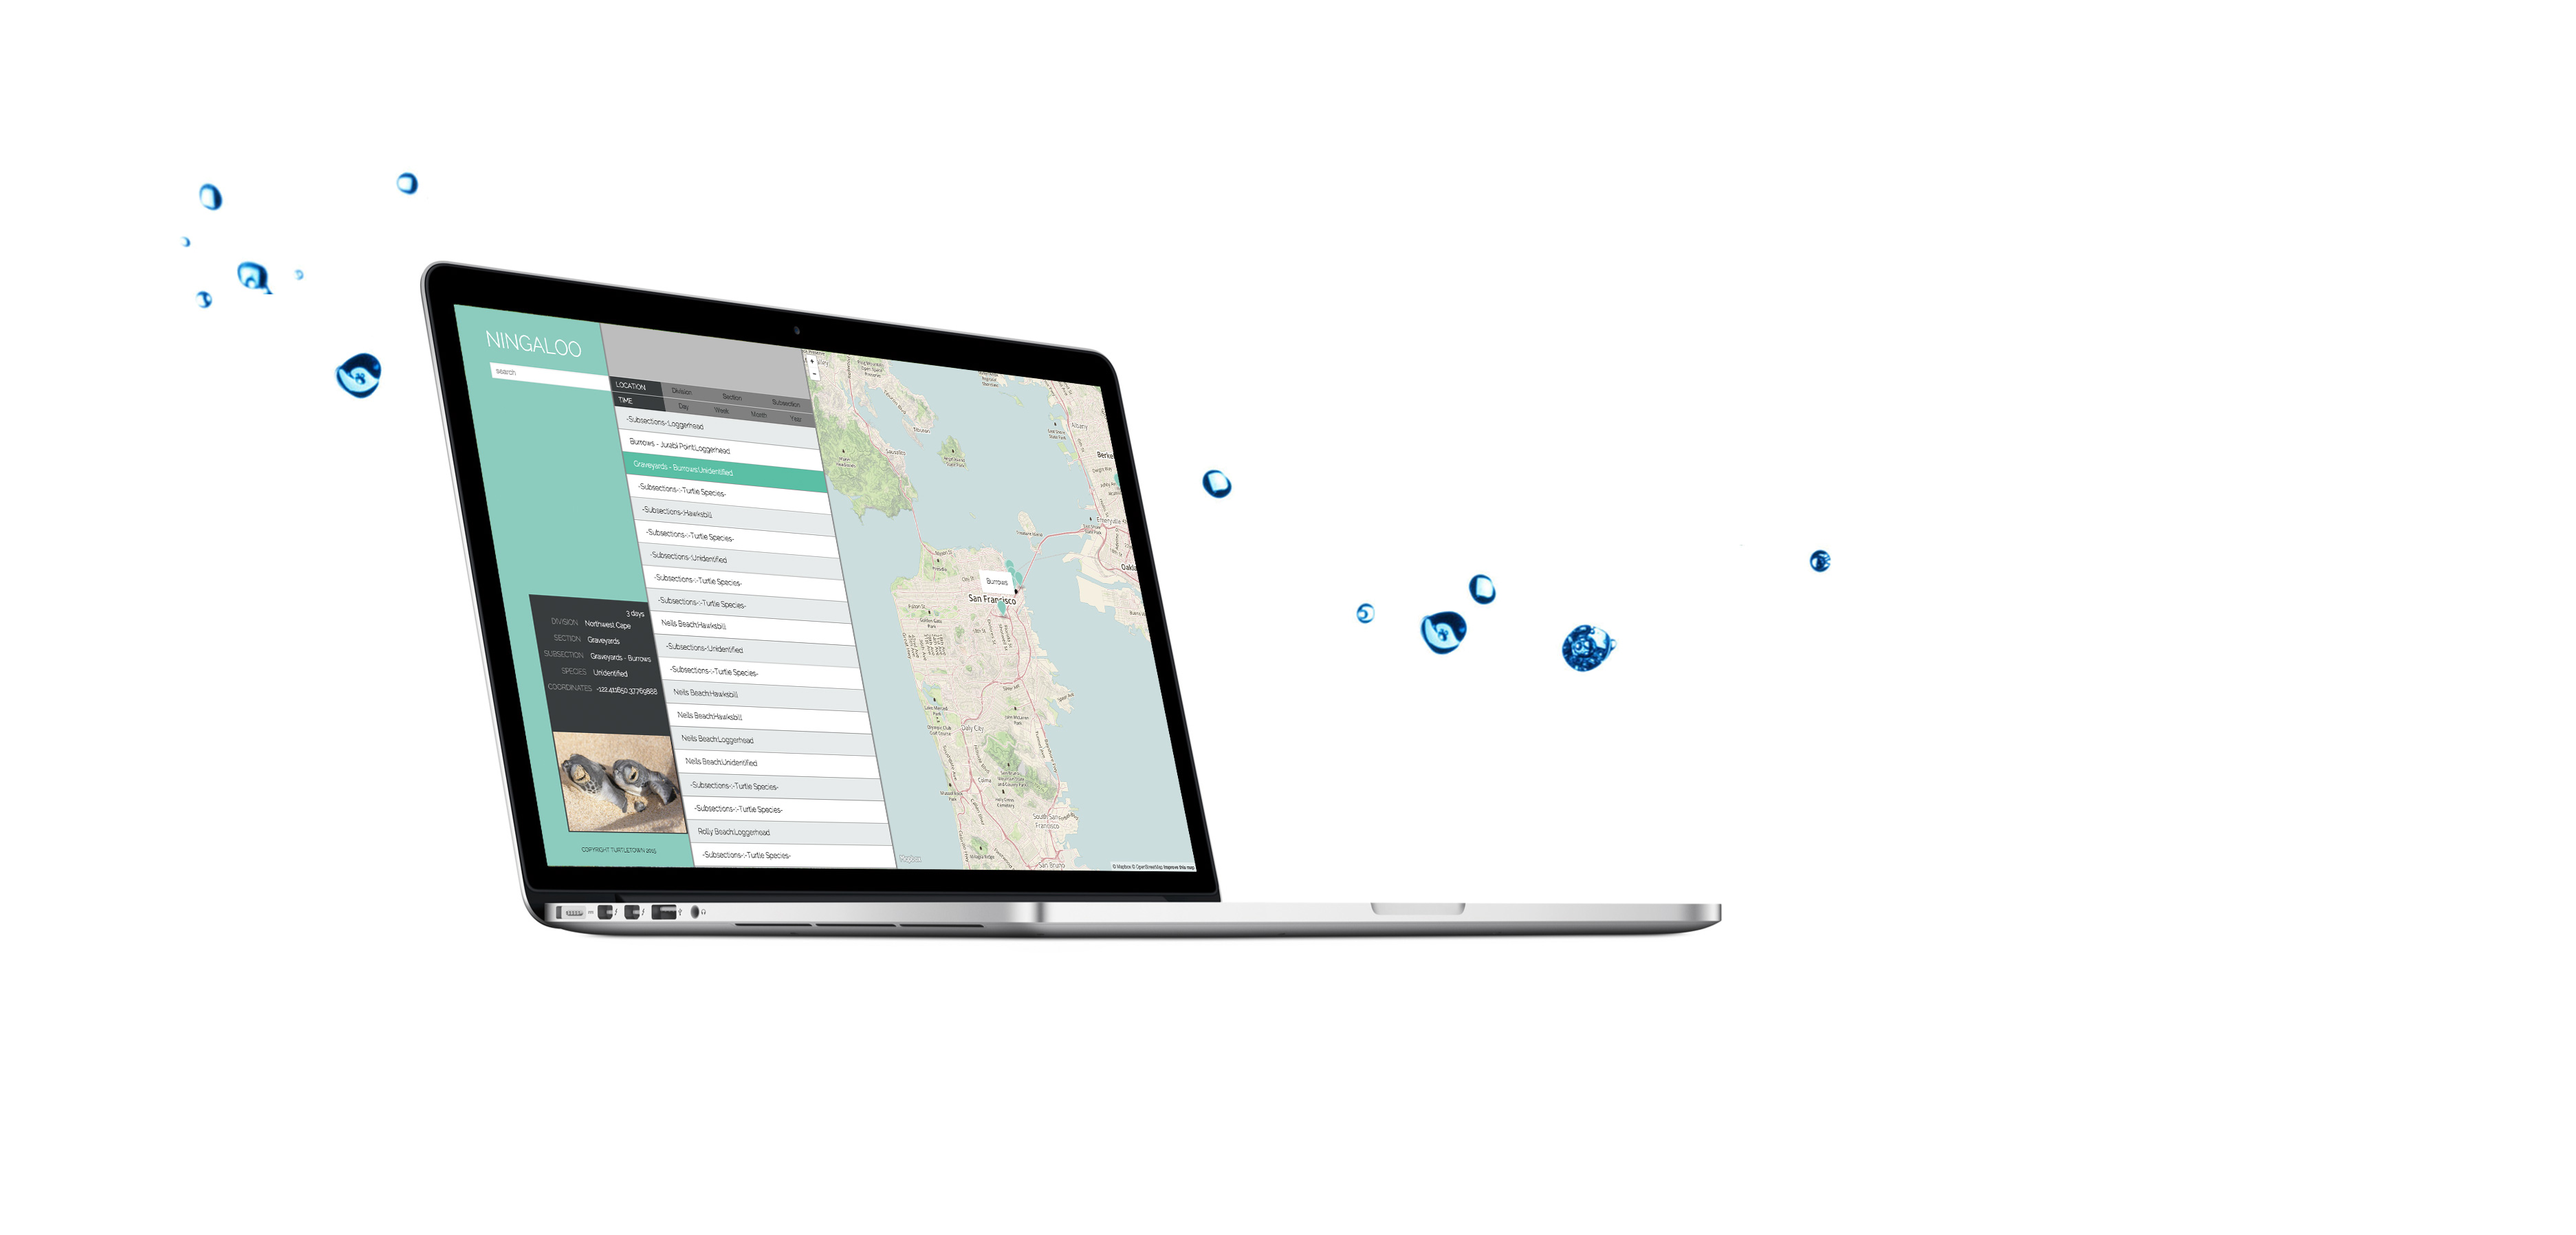
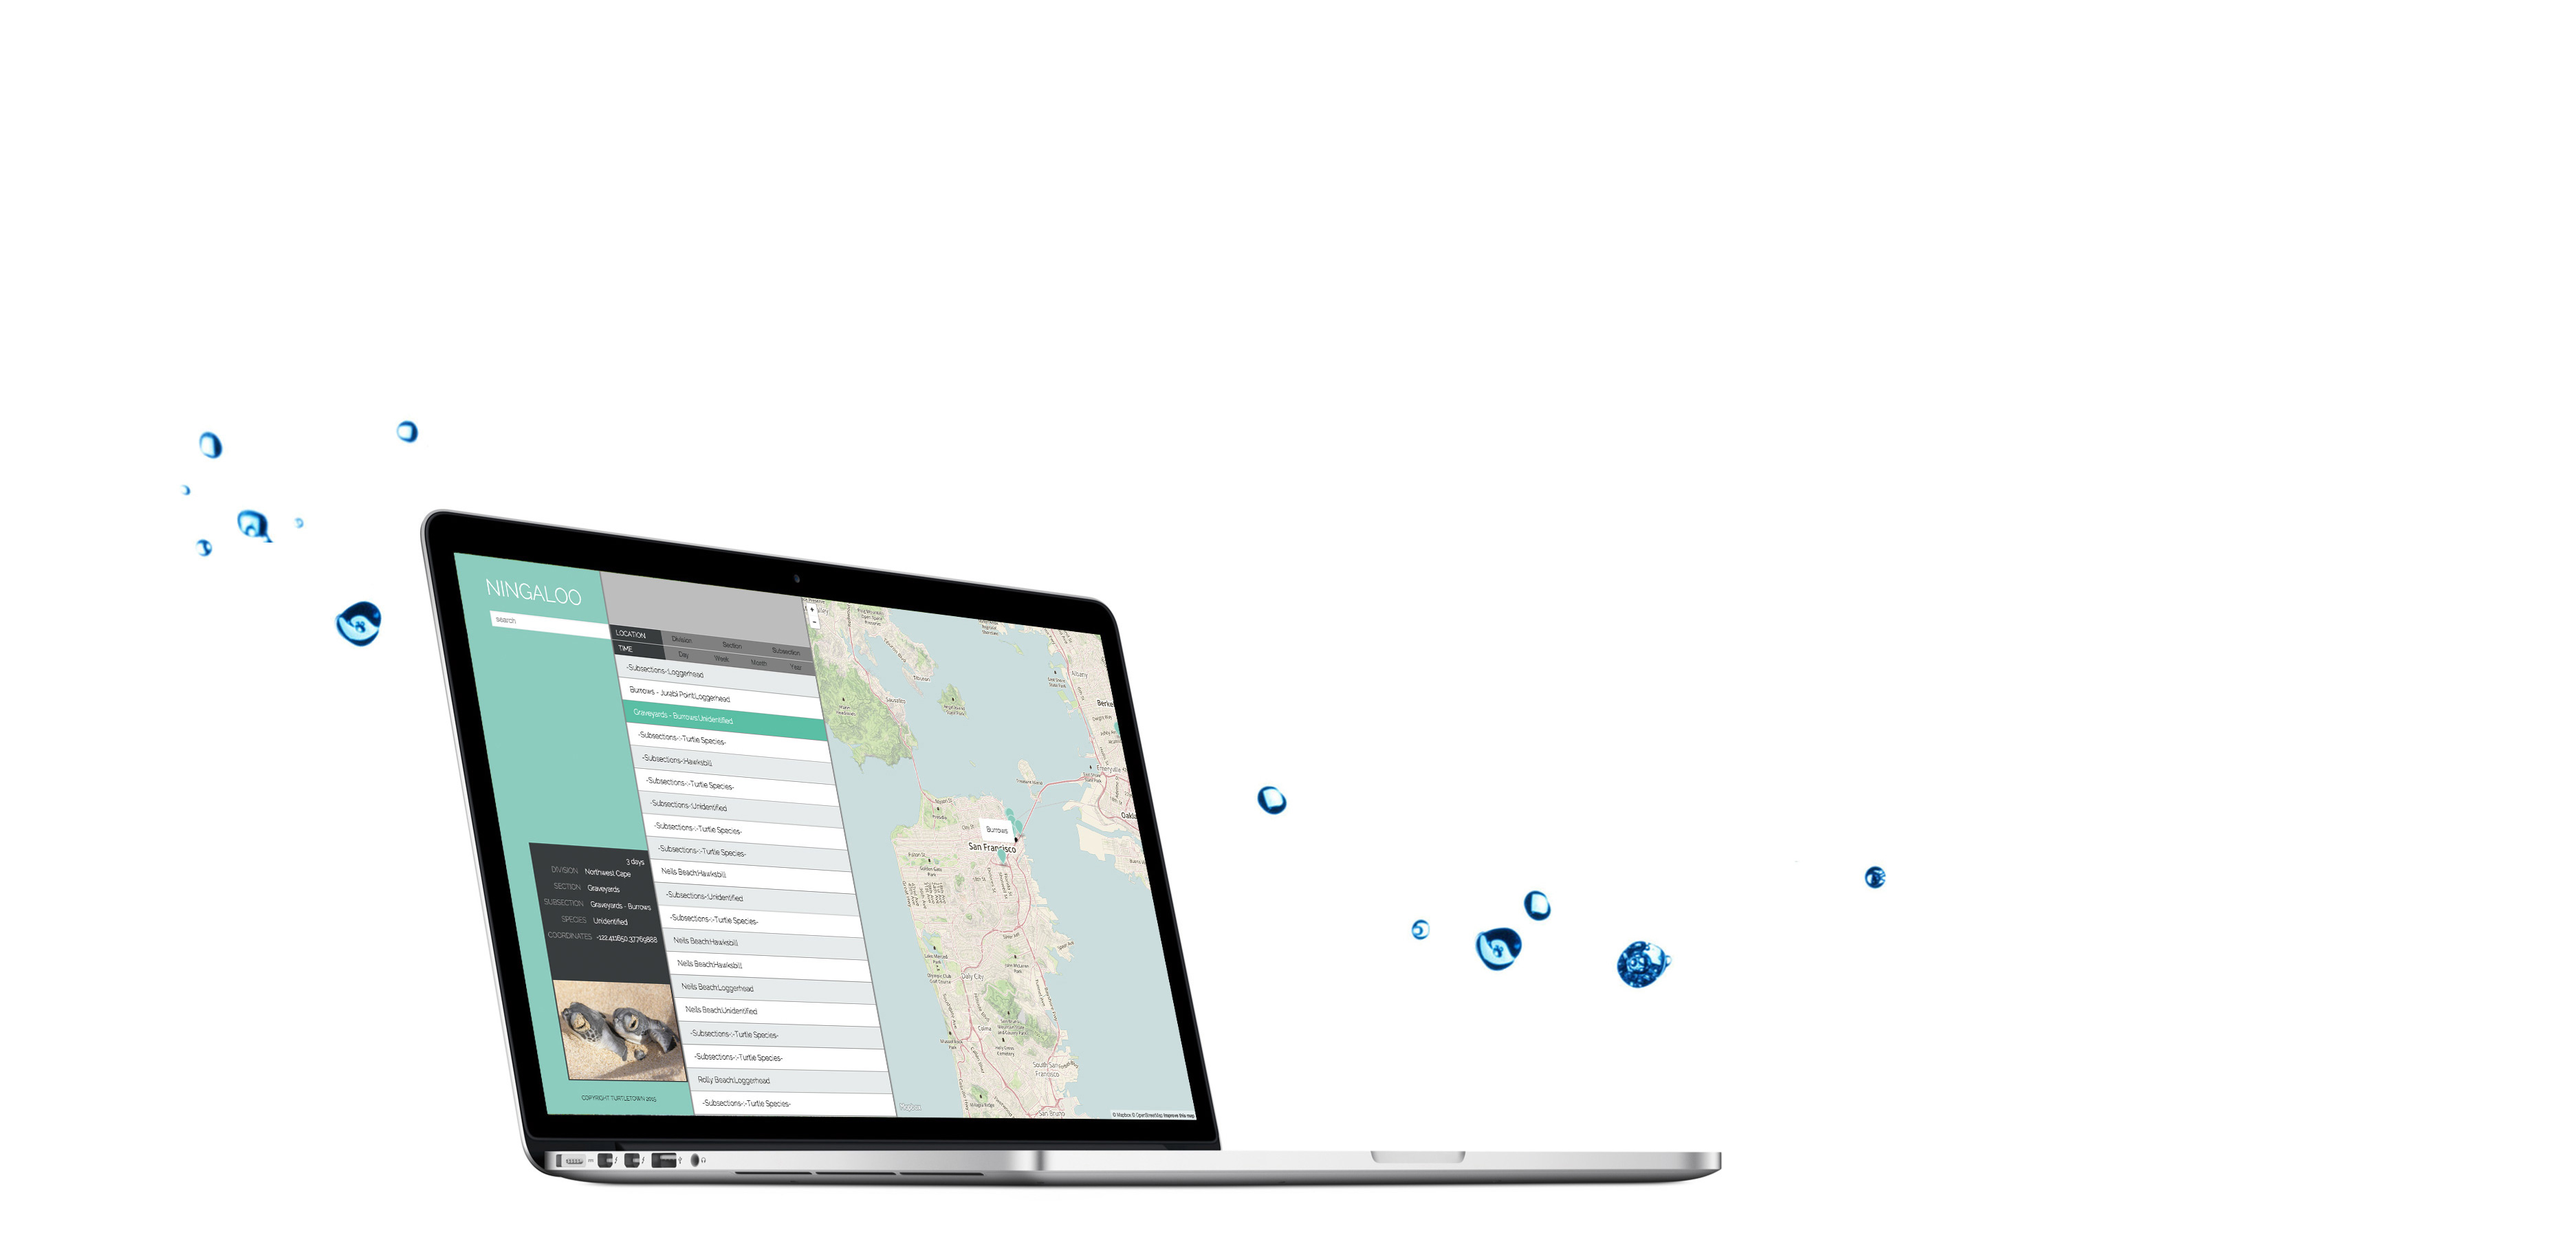
minor positioning tweaks due to copy change

diff --git a/index.html b/index.html
@@ -76,7 +76,7 @@
             <h2>Ningaloo</h2>
 
             <p>Ningaloo is a native mobile app that helps volunteers document nested turtle eggs as part of the <a href="http://www.ningalooturtles.org.au/" target="_blank">Ningaloo Turtle Program</a> in Australia. It was developed by a team of four in a week as a final project for DevBootcamp. Such an app requires careful attention to caching and synchronization issues, since network connectivity is spotty in the field. For these reasons we used technologies including Meteor and MongoDB. We worked in collaboration with the Ningaloo non-profit, and will be beta-testing this system next season.</p>
-	          <a class="more">SEE MORE</a>
+	          <a class="more two">SEE MORE</a>
 
 	        </div>
         <div id="floatphone"><img src="images/floatphone.png"></div>

diff --git a/style.css b/style.css
@@ -165,6 +165,8 @@ h2{
 
 #floatphone{
 	transform: scale(0.5,0.5);
+	position: absolute;
+	top: 1150px;
 }
 
 .more{
@@ -196,7 +198,7 @@ h2{
 	height: 1300px;
 	margin: 0 auto;
 	overflow: hidden;
-	padding: 150px 0 0 0;
+	padding: 80px 0 0 0;
 }
 
 #badge{
@@ -210,8 +212,12 @@ h2{
 #fifth{
 	background: #fafafa;
 	color: black;
-	height: 600px;
+	height: 750px;
 	padding: 0;
+}
+
+#blurb{
+	margin-top: 50px;
 }
 
 /* SIXTH SECTION */
@@ -233,9 +239,7 @@ h2{
 	line-height: 3.4vh;
 }
 
-#blurb{
-	margin-top: -30px;
-}
+
 
 /* SHARED */
 
@@ -269,11 +273,11 @@ h2{
 
 .float{
 	position: fixed;
-	background: rgba(0,0,0,.1);
+	background: rgba(0,0,0,.5);
 	top: 0;
 	left: 0;
 	width: 100vw;
-	height: 97vh;
+	height: 100vh;
 	z-index: 500;
 	cursor: pointer;
 }

diff --git a/scripts/jquery.modal.js b/scripts/jquery.modal.js
@@ -33,8 +33,8 @@ $(document).ready(function(){
         current=current+1;
     }
     nextPage = pages.eq(current);
-    nextPage.fadeIn();
     currentPage.fadeOut();
+    nextPage.fadeIn();
   });
 });
 
